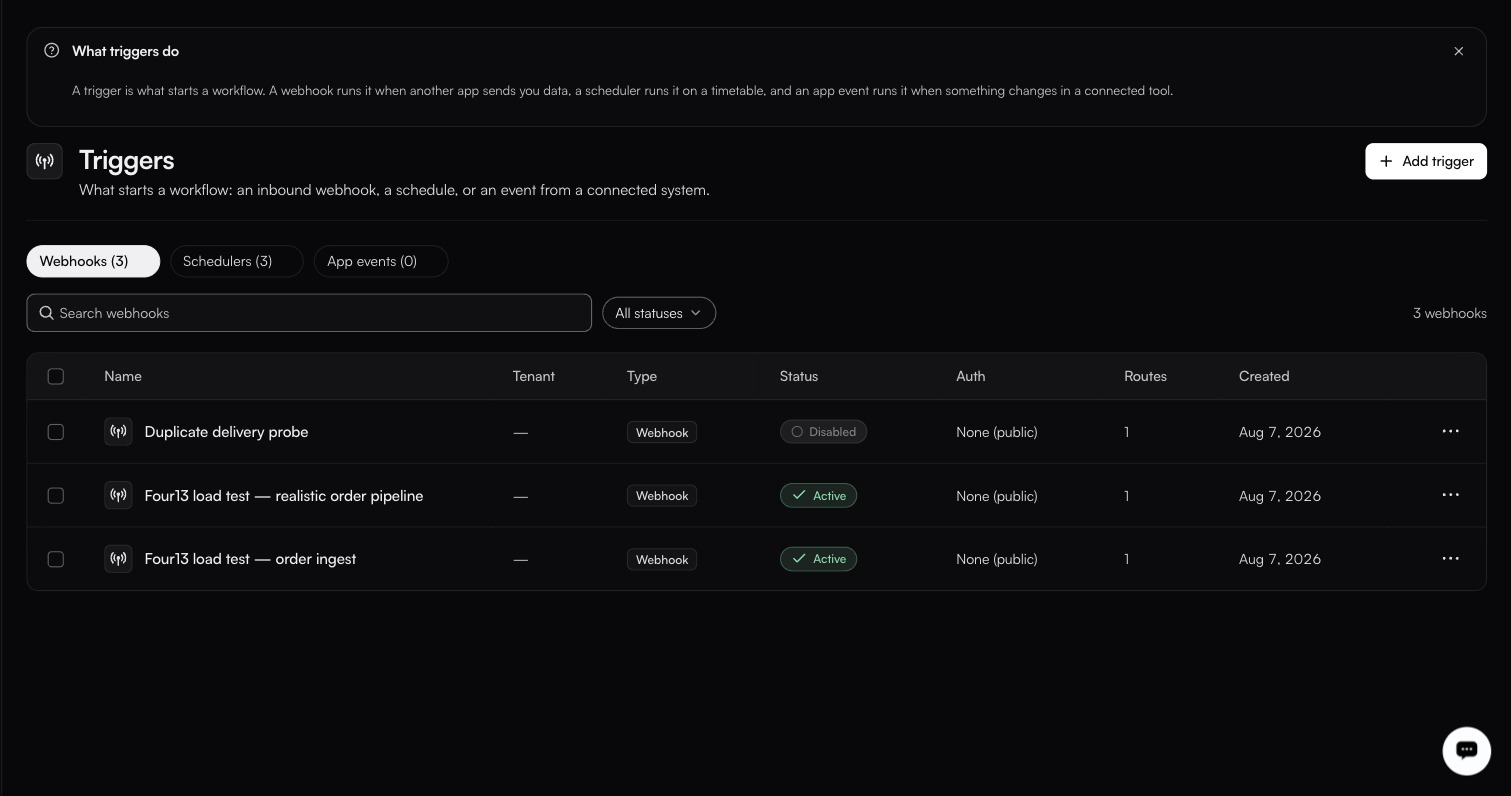
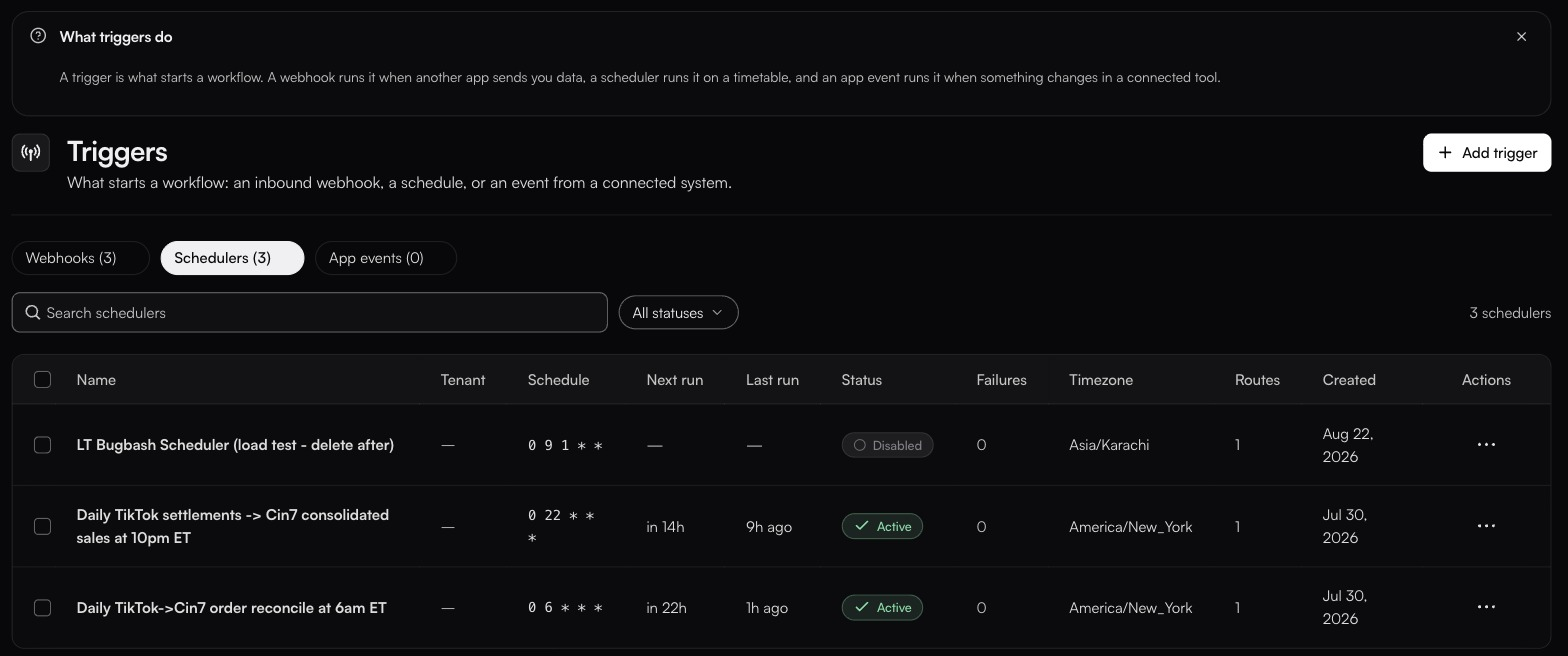
docs: re-shoot the triggers hero off client data; normalise spelling
Screenshot:
- triggers.jpg showed two webhooks named "Four13 load test …", putting a
  client name in a published image. Re-shot from Zain's Organisation on
  the Schedulers tab, which is populated, carries no client naming, and
  demonstrates the list better: eleven columns, Active/Disabled pills,
  the Failures column, and cron in the Schedule column — the three
  things these pages now explain. Alt and caption rewritten to match.

Spelling:
- The audit's N1 argued for American spelling on the grounds that "every
  product string is US English". That premise is wrong: the Connectors
  page reads "Every system your customers can authorise … not a
  catalogue count", and the app's own chrome says "Organisation
  settings" and "SWITCH ORGANISATION".
- The real defect was that the docs were inconsistent with themselves —
  101 British forms against 64 American ones, including a near-even
  organisation/organization split. Normalised the live pages to British,
  matching the product's UI, with code blocks, inline code and the
  literal Authorization: header protected. 50 replacements over 17
  files; the Authorization header and the "Catalog connectors" toggle
  label are untouched because both are verbatim strings.

Verified: 95 nav pages, 69 figures, 0 broken links, 0 missing images,
0 weak alt text, 0 empty captions.

diff --git a/tutorials/saas-admin/setting-up-your-organization.md b/tutorials/saas-admin/setting-up-your-organization.md
@@ -1,21 +1,21 @@
 ---
 description: >-
-  Configure your organization profile, environments, API keys, and project
+  Configure your organisation profile, environments, API keys, and project
   settings after your first Fastn login.
 ---
 
-# Setting Up Your Organization
+# Setting Up Your Organisation
 
-After the Setup Assistant configures your core integrations, workflows, and widget, there are a handful of organization-level settings that allows you to control your company profile, team access, customer management, and billing. This tutorial walks through each one.
+After the Setup Assistant configures your core integrations, workflows, and widget, there are a handful of organisation-level settings that allows you to control your company profile, team access, customer management, and billing. This tutorial walks through each one.
 
-### Step 1: Configure organization settings
+### Step 1: Configure organisation settings
 
 1. Click **Settings** in the top nav.
 2. Click **General** in the left sidebar.
 
 Here you can configure:
 
-**Organization Name** — How your company appears across the platform.
+**Organisation Name** — How your company appears across the platform.
 
 **Timezone** — Used for scheduled triggers and activity timestamps.
 
@@ -29,7 +29,7 @@ Scroll down on the General page to find the **Company Research Report** card.
 
 This report is what informed the AI's connector recommendations and workflow suggestions during onboarding. Revisit it when planning new integrations or evaluating which connectors to prioritize next.
 
-> **Screenshot:** Settings → General showing Organization Name, Timezone, Domain & Access Control, and the Company Research Report card with the "View research report" button.
+> **Screenshot:** Settings → General showing Organisation Name, Timezone, Domain & Access Control, and the Company Research Report card with the "View research report" button.
 
 #### Reset Onboarding
 
@@ -66,9 +66,9 @@ Fastn has six system roles. Each role has a fixed set of permissions across Conn
 
 | Role          | Permissions | What they can do                                                                                                      |
 | ------------- | ----------- | --------------------------------------------------------------------------------------------------------------------- |
-| **Owner**     | 39          | Full access to everything an Admin can do, plus ownership transfer and organization deletion. One per organization.   |
+| **Owner**     | 39          | Full access to everything an Admin can do, plus ownership transfer and organisation deletion. One per organisation.   |
 | **Admin**     | 39          | Full access to connectors, workflows, customers, billing, settings. Cannot transfer ownership.                        |
-| **Developer** | 34          | Allows a user to build connectors, workflows, agents. No billing or organization settings.                            |
+| **Developer** | 34          | Allows a user to build connectors, workflows, agents. No billing or organisation settings.                            |
 | **Operator**  | 18          | Can run workflows, monitor activity. Cannot create or modify connectors or workflows.                                 |
 | **Viewer**    | 7           | Read-only access across the platform.                                                                                 |
 | **End User**  | 9           | Widget-only access. Can connect apps, view sync status, configure their own integrations through the embedded widget. |
@@ -119,7 +119,7 @@ Click **"Customize Customer Limits"** to set per-customer quota overrides which 
 1. Go to **Settings → Audit Log**.
 2. The log shows a table with columns: **TIMESTAMP, USER, ACTION, RESOURCE, OUTCOME**.
 
-Every significant action in your organization is recorded here from user logins, workflow deployments, connector changes to customer connections. Use it for compliance, debugging, or understanding who changed what.
+Every significant action in your organisation is recorded here from user logins, workflow deployments, connector changes to customer connections. Use it for compliance, debugging, or understanding who changed what.
 
 > **Screenshot needed:** Settings → Audit Log showing a few example entries with timestamps and actions.
 
@@ -135,7 +135,7 @@ See more details in the [Developer](../developer/) tutorials for the full setup 
 
 ### What you've configured
 
-* Organization name, timezone, and domain access control
+* Organisation name, timezone, and domain access control
 * Reviewed the Company Research Report from onboarding
 * Reviewed Fastn-managed OAuth apps
 * Team members invited with appropriate roles

diff --git a/tutorials/end-user/connecting-apps-via-widget.md b/tutorials/end-user/connecting-apps-via-widget.md
@@ -1,6 +1,6 @@
 ---
 description: >-
-  Find available integrations, authorize your accounts, and activate connections
+  Find available integrations, authorise your accounts, and activate connections
   through the embedded integration widget.
 ---
 
@@ -45,14 +45,14 @@ At the top of the Apps tab, a **search bar** lets you filter available integrati
 
 > **Screenshot needed:** Widget showing a list of available integrations with Connect buttons next to each one, and the search bar at the top.
 
-5. A popup opens with the third-party app's authorization screen. This is the app's own login page not the product's, not Fastn's.
+5. A popup opens with the third-party app's authorisation screen. This is the app's own login page not the product's, not Fastn's.
 6. Sign in with your account on the third-party app.
-7. Review the permissions being requested and click **Authorize** (or "Allow").
+7. Review the permissions being requested and click **Authorise** (or "Allow").
 8. The popup closes and you're redirected back to the widget. The app now shows a green dot with a **"Connected"** label beneath the app name.
 
-### What happens during authorization
+### What happens during authorisation
 
-When you click Connect and authorize, you're giving the product permission to access your data on the third-party app. For example:
+When you click Connect and authorise, you're giving the product permission to access your data on the third-party app. For example:
 
 * Connecting Slack lets the product send messages to your channels or read your channel list
 * Connecting Shopify lets the product read your orders, products, or customers
@@ -77,20 +77,20 @@ If you want to stop an integration:
 3. Click **Disconnect** (or "Deactivate" / "Remove").
 4. The connection is removed. The product can no longer access your data on that app.
 
-Disconnecting removes the stored credentials. If you reconnect later, you'll need to authorize again.
+Disconnecting removes the stored credentials. If you reconnect later, you'll need to authorise again.
 
 > **Screenshot:** Widget showing a connected app with the Disconnect button visible.
 
 ### Troubleshooting
 
-**The Connect button does nothing:** Check if your browser is blocking popups. The authorization screen opens in a popup window, if it's blocked, nothing happens. Allow popups for this site and try again.
+**The Connect button does nothing:** Check if your browser is blocking popups. The authorisation screen opens in a popup window, if it's blocked, nothing happens. Allow popups for this site and try again.
 
-**Authorization fails:** Make sure you're signing into the correct account on the third-party app. If you have multiple accounts (e.g., multiple Slack workspaces), verify you're authorizing the right one.
+**Authorisation fails:** Make sure you're signing into the correct account on the third-party app. If you have multiple accounts (e.g., multiple Slack workspaces), verify you're authorising the right one.
 
-**The app shows "Error" after connecting:** The authorization may have succeeded but the initial setup failed. Try disconnecting and reconnecting. If the error persists, contact the product's support team.
+**The app shows "Error" after connecting:** The authorisation may have succeeded but the initial setup failed. Try disconnecting and reconnecting. If the error persists, contact the product's support team.
 
 ### What you've done
 
 * Found the integration widget in your product
-* Connected a third-party app by authorizing your account
+* Connected a third-party app by authorising your account
 * Understand what permissions are granted and how your data is protected

diff --git a/tutorials/saas-admin/configuring-a-connector.md b/tutorials/saas-admin/configuring-a-connector.md
@@ -50,10 +50,10 @@ Six auth methods are available when creating a connector:
 | Method           | How it works                                                             | Example apps                          |
 | ---------------- | ------------------------------------------------------------------------ | ------------------------------------- |
 | **No Auth**      | No authentication required. For public APIs.                             | Public data feeds                     |
-| **Basic Auth**   | Username and password sent as Base64 in Authorization header.            | Legacy APIs, internal systems         |
-| **Bearer Token** | Token sent in Authorization header as `Bearer {token}`.                  | Many modern APIs                      |
+| **Basic Auth**   | Username and password sent as Base64 in Authorisation header.            | Legacy APIs, internal systems         |
+| **Bearer Token** | Token sent in Authorisation header as `Bearer {token}`.                  | Many modern APIs                      |
 | **API Key**      | Key sent in a custom header (e.g., `X-API-Key`).                         | Stripe, SendGrid, OpenAI              |
-| **OAuth 2.0**    | User authorizes via the app's login screen. Fastn manages token refresh. | Slack, Shopify, HubSpot, Xero, Google |
+| **OAuth 2.0**    | User authorises via the app's login screen. Fastn manages token refresh. | Slack, Shopify, HubSpot, Xero, Google |
 | **Custom**       | A custom handler manages auth. For proprietary systems.                  | Internal tools, custom APIs           |
 
 You can add multiple auth methods to one connector (click **"+ Add"** in the Auth Methods section). One method is set as default.
@@ -77,7 +77,7 @@ A connector defines the integration. A **connection** is an authenticated instan
 1. On the Connectors page, find your connector card.
 2. Click **Connect** (first connection) or **+ Add Connection** (additional connections).
 3. Complete the auth flow:
-   * **OAuth 2.0:** Popup opens with the app's login screen. Authorize and you're redirected back.
+   * **OAuth 2.0:** Popup opens with the app's login screen. Authorise and you're redirected back.
    * **API Key / Bearer Token:** Paste the key/token and save.
    * **Basic Auth:** Enter username and password.
 4. The connection appears under **Integrations → Connections**.
@@ -108,8 +108,8 @@ On the Connectors page, each connector card shows:
 
 | Visibility  | Who can see it                                   |
 | ----------- | ------------------------------------------------ |
-| **Private** | Only you and your organization                   |
-| **Public**  | Available to other organizations (if applicable) |
+| **Private** | Only you and your organisation                   |
+| **Public**  | Available to other organisations (if applicable) |
 
 Set visibility in the Create Connector dialog or edit it later from the connector's settings.
 

diff --git a/tutorials/saas-admin/roles-and-permissions-setup.md b/tutorials/saas-admin/roles-and-permissions-setup.md
@@ -12,8 +12,8 @@ Fastn has 6 system roles. View them under **Settings → ADVANCED → Roles**:
 
 | Role          | Permissions | Description                                                      |
 | ------------- | ----------- | ---------------------------------------------------------------- |
-| **Owner**     | 39          | Full access within organization and customers                    |
-| **Admin**     | 39          | Full access within organization and customers                    |
+| **Owner**     | 39          | Full access within organisation and customers                    |
+| **Admin**     | 39          | Full access within organisation and customers                    |
 | **Developer** | 34          | Build connectors, workflows, agents. No billing or org settings. |
 | **Operator**  | 18          | Operational access — run workflows, monitor activity             |
 | **Viewer**    | 7           | Read-only access                                                 |
@@ -37,7 +37,7 @@ Each role has granular permissions across 5 categories:
 
 **Owner / Admin** — All 39 permissions. Full access to everything.
 
-**Developer** — 34 permissions. Can build and deploy connectors, workflows, and agents. Cannot manage billing, organization settings, or user roles.
+**Developer** — 34 permissions. Can build and deploy connectors, workflows, and agents. Cannot manage billing, organisation settings, or user roles.
 
 **Operator** — 18 permissions. Can run workflows, monitor executions, and manage connections. Cannot create new connectors or workflows.
 

diff --git a/tutorials/developer/understanding-tenancy.md b/tutorials/developer/understanding-tenancy.md
@@ -8,9 +8,9 @@ Fastn supports two ways to scope connections within the same embed: org-level (s
 
 ### The distinction
 
-**Org-level (shared)** — One connection serves the entire customer organization. Anyone in that organization uses the same connection. Use this for shared systems of record.
+**Org-level (shared)** — One connection serves the entire customer organisation. Anyone in that organisation uses the same connection. Use this for shared systems of record.
 
-**User-level (per individual)** — Each user has their own connection, isolated from other users in the same organization. Use this for resources tied to one person's identity.
+**User-level (per individual)** — Each user has their own connection, isolated from other users in the same organisation. Use this for resources tied to one person's identity.
 
 {% hint style="info" %}
 This is **not** an "internal vs external user" distinction, and it is **not** about who can edit. It is strictly shared-vs-personal, based on who owns the connected resource.
@@ -45,7 +45,7 @@ The `tenant-id` parameter is present. Combined with the `userEmail` and `userNam
 https://app.fastn.dev/api/v1/embed/iframe?token=<token>
 ```
 
-No `tenant-id` parameter. Connections are shared across the organization.
+No `tenant-id` parameter. Connections are shared across the organisation.
 
 ### Persona examples
 

diff --git a/tutorials/README.md b/tutorials/README.md
@@ -14,7 +14,7 @@ These tutorials are hands-on walkthroughs that teach you how to use Fastn by bui
 
 For the person setting up and managing Fastn within their SaaS product.
 
-[**Setting Up Your Organization** ](saas-admin/setting-up-your-organization.md)— Configure org settings, API keys (Test & Live), secrets, environments, OAuth Apps, and invite your team.
+[**Setting Up Your Organisation** ](saas-admin/setting-up-your-organisation.md)— Configure org settings, API keys (Test & Live), secrets, environments, OAuth Apps, and invite your team.
 
 [**Creating a Workflow via AI**](saas-admin/creating-a-workflow-via-ai.md) — Use "Build with AI" to create workflows by describing what you need in plain language.
 
@@ -28,7 +28,7 @@ For the person setting up and managing Fastn within their SaaS product.
 
 For the people who use integrations through the embedded widget in a SaaS product.
 
-[**Connecting Apps via Widget** ](end-user/connecting-apps-via-widget.md)— Find available integrations, authorize your accounts, and activate connections.
+[**Connecting Apps via Widget** ](end-user/connecting-apps-via-widget.md)— Find available integrations, authorise your accounts, and activate connections.
 
 [**Customizing Your Integrations**](end-user/customizing-your-integrations.md) — Configure sync preferences, field mappings, and scheduling.
 

diff --git a/build/triggers/README.md b/build/triggers/README.md
@@ -6,7 +6,7 @@ description: What starts a workflow — an inbound webhook, a schedule, or an ev
 
 **Integrations → Triggers** · `/integrations?tab=triggers`
 
-<figure><img src="../../.gitbook/assets/triggers.jpg" alt="The Triggers page on Webhooks (3), beside Schedulers (3) and App events (0): three rows — Duplicate delivery probe Disabled, and two Four13 load test webhooks Active — each None (public) with 1 route"><figcaption>The dismissible What triggers do banner explains all three types before you pick one.</figcaption></figure>
+<figure><img src="../../.gitbook/assets/triggers.jpg" alt="The Triggers page on the Schedulers tab beside Webhooks (3) and App events (0): three rows with columns Name, Tenant, Schedule showing cron expressions, Next run, Last run, Status as Disabled or Active pills, Failures, Timezone, Routes, Created and Actions"><figcaption>The dismissible <strong>What triggers do</strong> banner explains all three types before you pick one. The <code>Schedule</code> column shows the cron each trigger compiles to.</figcaption></figure>
 
 A workflow with no trigger only runs when something calls it. A trigger is what makes it run on its own.
 

diff --git a/getting-started/platform-tour.md b/getting-started/platform-tour.md
@@ -98,7 +98,7 @@ The widget builder has four tabs — Layout, Style, Features, Embed — and a li
 
 Trash is in the sidebar for Owners, Admins and Developers alike, at `/settings/trash`. Two capabilities are gated by role rather than by permission — using the AI assistant, and reading the audit log. Each screen has its own page under [Settings](../manage/README.md).
 
-<figure><img src="../.gitbook/assets/settings-general.jpg" alt="Settings → General: an Organisation block with Name Zain's Organization and Timezone Asia/Karachi, then Joining by email domain with an empty domain field and Approve automatically off"><figcaption>General is where Settings opens for an Owner — organisation identity first, joining rules second.</figcaption></figure>
+<figure><img src="../.gitbook/assets/settings-general.jpg" alt="Settings → General: an Organisation block with Name Zain's Organisation and Timezone Asia/Karachi, then Joining by email domain with an empty domain field and Approve automatically off"><figcaption>General is where Settings opens for an Owner — organisation identity first, joining rules second.</figcaption></figure>
 
 ### The account card
 

diff --git a/tutorials/saas-admin/README.md b/tutorials/saas-admin/README.md
@@ -1,7 +1,7 @@
 ---
 description: >-
   Tutorials for setting up and managing Fastn within your SaaS product
-  organization config, connectors, workflows, widgets, tenants, and access
+  organisation config, connectors, workflows, widgets, tenants, and access
   control.
 ---
 
@@ -13,7 +13,7 @@ These tutorials are for the person responsible for Fastn inside a SaaS company t
 
 ### Tutorials in this section
 
-[**Setting Up Your Organization**](setting-up-your-organization.md) — Configure organization settings, API keys (Test & Live), secrets, environments, and invite your team via Settings → People.
+[**Setting Up Your Organisation**](setting-up-your-organisation.md) — Configure organisation settings, API keys (Test & Live), secrets, environments, and invite your team via Settings → People.
 
 [**Creating a Workflow via AI**](creating-a-workflow-via-ai.md) — Use the "Build with AI" button to create workflows by describing what you need in plain language.
 

diff --git a/manage/general.md b/manage/general.md
@@ -6,7 +6,7 @@ description: Your organisation and how people join it.
 
 **Settings → General**
 
-<figure><img src="../.gitbook/assets/settings-general.jpg" alt="General settings: an Organisation block with Name Zain's Organization and Timezone Asia/Karachi, then Joining by email domain with an empty Email domain field, Approve automatically off, and the joining role set to Developer"><figcaption>The role selector only preselects what a joiner gets; it is not a ceiling.</figcaption></figure>
+<figure><img src="../.gitbook/assets/settings-general.jpg" alt="General settings: an Organisation block with Name Zain's Organisation and Timezone Asia/Karachi, then Joining by email domain with an empty Email domain field, Approve automatically off, and the joining role set to Developer"><figcaption>The role selector only preselects what a joiner gets; it is not a ceiling.</figcaption></figure>
 
 ### Organisation
 

diff --git a/reference/api.md b/reference/api.md
@@ -4,7 +4,7 @@ description: Calling workflows and unified endpoints over HTTP.
 
 # HTTP API
 
-<figure><img src="../.gitbook/assets/workflow-api-tab.jpg" alt="A workflow's API tab showing a POST endpoint ending /workflows/wf_b5880b29eb25/execute, a copyable curl carrying Authorization, X-fastn-Test-Mode and x-fastn-env headers, and a Request body block"><figcaption>Every workflow's API tab shows its own endpoint and a copyable curl.</figcaption></figure>
+<figure><img src="../.gitbook/assets/workflow-api-tab.jpg" alt="A workflow's API tab showing a POST endpoint ending /workflows/wf_b5880b29eb25/execute, a copyable curl carrying Authorisation, X-fastn-Test-Mode and x-fastn-env headers, and a Request body block"><figcaption>Every workflow's API tab shows its own endpoint and a copyable curl.</figcaption></figure>
 
 ### Base URL
 

diff --git a/build/triggers/schedulers.md b/build/triggers/schedulers.md
@@ -44,7 +44,7 @@ Five modes:
 {% step %}
 #### Set the timezone and start
 
-**Timezone** is required and defaults to your browser's zone — not your organization's, and not the one on [your profile](../../manage/profile.md), which only controls how times are displayed to you. Two more fields sit alongside it: **Starts at**, optional, and **Run immediately on create**, a checkbox.
+**Timezone** is required and defaults to your browser's zone — not your organisation's, and not the one on [your profile](../../manage/profile.md), which only controls how times are displayed to you. Two more fields sit alongside it: **Starts at**, optional, and **Run immediately on create**, a checkbox.
 {% endstep %}
 
 {% step %}
